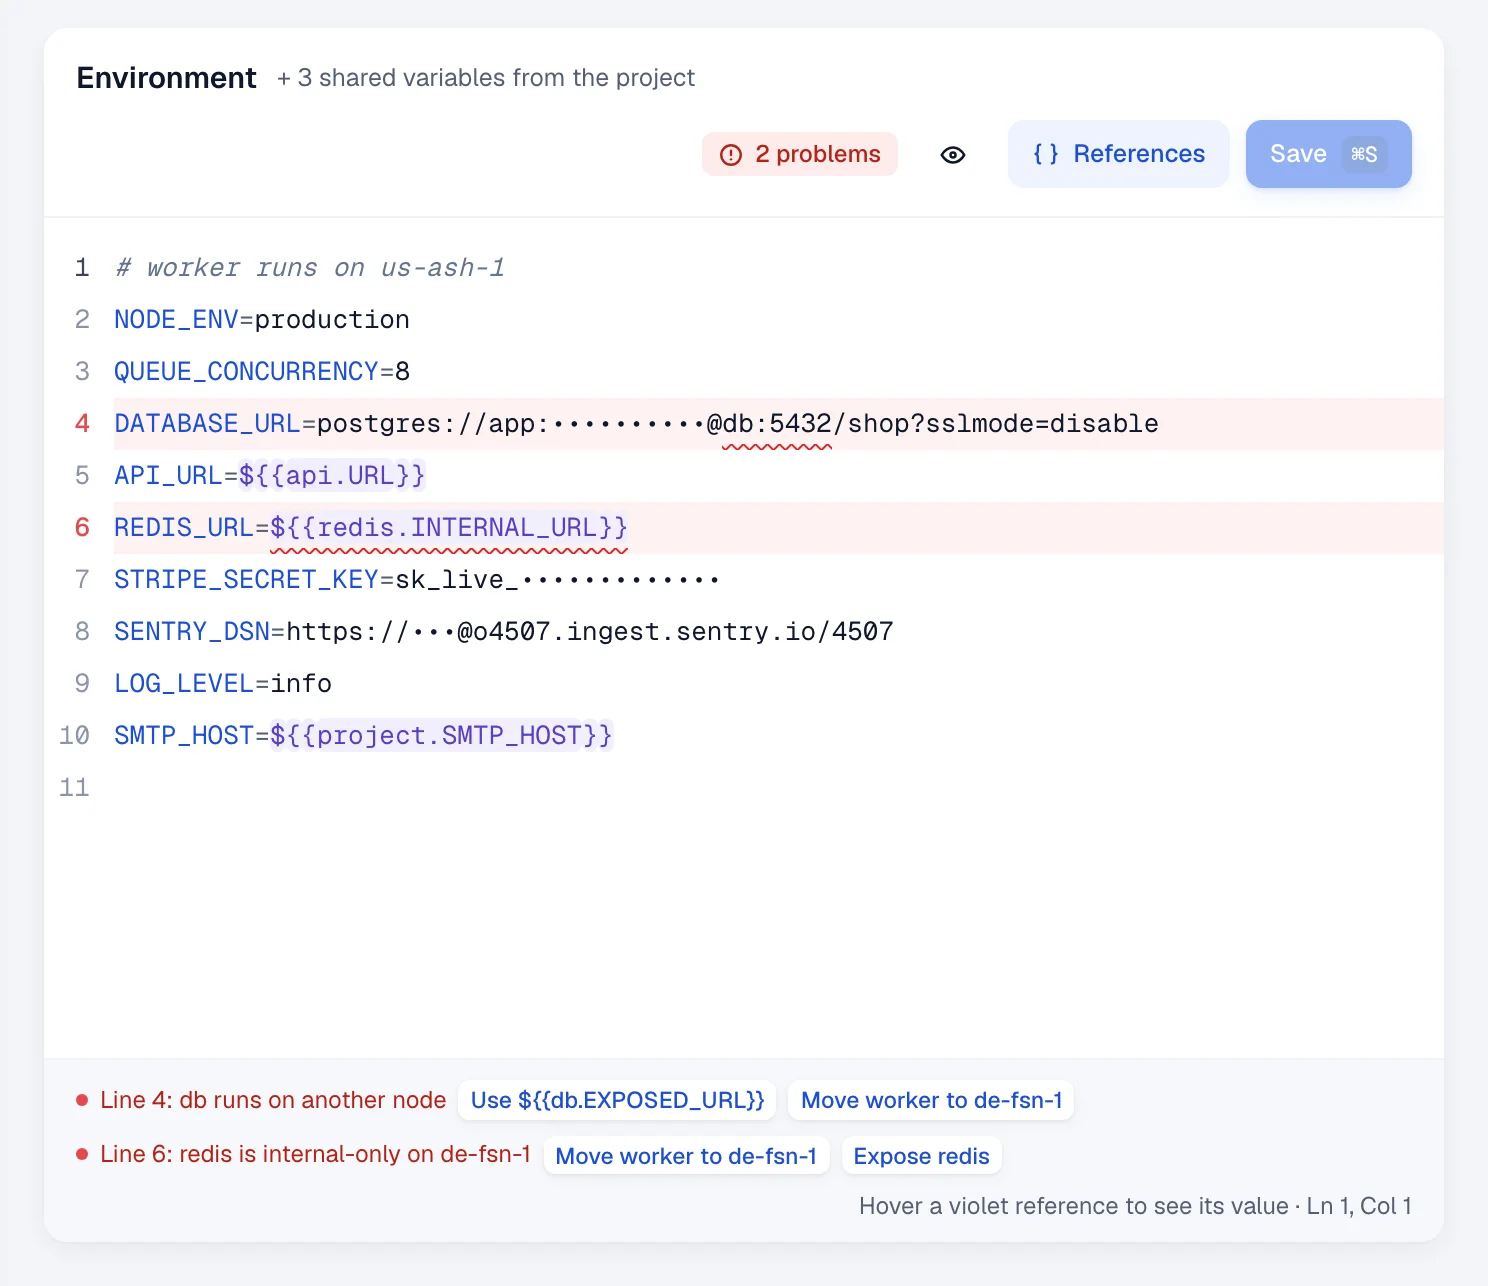
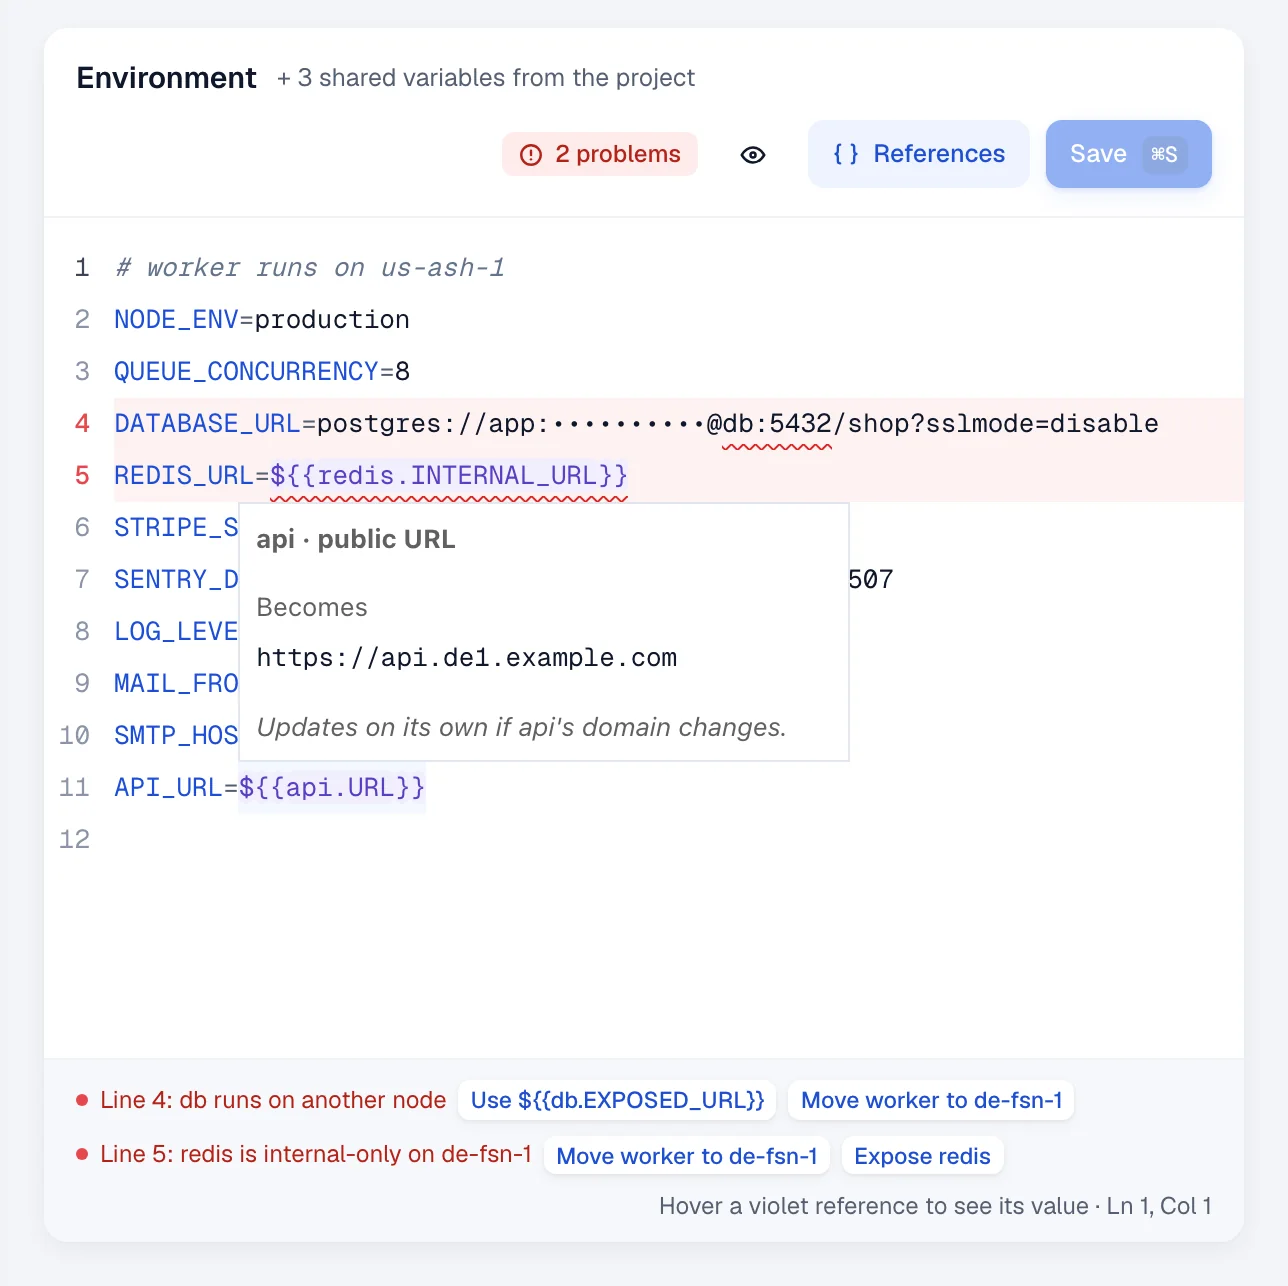
Landing sections: review fixes on copy, phone crops and captures
- Crash alerts carry the last 100 log lines, not 50 (agent MaxLines and panel maxCrashLines are 100).
- MCP: only deletes and other destructive calls wait in Approvals; the rest runs with the token's actions.
- Moving a service: the old copy is stopped while its volumes copy. Replicas: every node's edge balances,
  or an entry node takes the public traffic. Redis keeps its default user behind TLS. Restore any kept run.
- Env cell: one real capture with the editor's own hover on ${{api.URL}} (demo env reordered so the
  hover sits over plain lines and both red underlines stay in view); the separate hover crop is gone.
- Bento crops fill the cell on phones instead of being cut at 322px; env and health check are captured
  from narrower cards so they stay legible there. Logs and uptime get the phone cut (uptime a milder one).
- Health check crop no longer shows the line of the block above. Demo log lines no longer repeat.
- Observe figure titles are h3, like the alerts block.

diff --git a/apps/landing/components/settings-section.tsx b/apps/landing/components/settings-section.tsx
@@ -1,4 +1,3 @@
-import Image from "next/image";
 import { captures } from "@/lib/captures";
 import { CellShot, Chips } from "./shot";
 import { SectionHeading } from "./section-heading";
@@ -34,34 +33,14 @@ export function SettingsSection() {
             <Code>{"${{redis.INTERNAL_URL}}"}</Code> resolves on every deploy. The editor underlines a reference this
             node can&apos;t reach and offers the fix. Hover one to see its value.
           </CellText>
-          <div className="mt-auto overflow-hidden pl-5 sm:pl-6">
-            <div className="relative w-[480px] sm:w-[600px] lg:w-[640px]">
-              <Image
-                src={captures.env.src}
-                alt={captures.env.alt}
-                width={captures.env.width}
-                height={captures.env.height}
-                unoptimized
-                className="cell-shot block h-auto w-full rounded-t-[10px]"
-              />
-              {/* The editor's hover for ${{api.URL}}, a separate crop of the same screen, over the empty lines. */}
-              <Image
-                src={captures.envHover.src}
-                alt={captures.envHover.alt}
-                width={captures.envHover.width}
-                height={captures.envHover.height}
-                unoptimized
-                className="hover-shot absolute top-[63%] left-[24%] h-auto w-[41%] rounded-md"
-              />
-            </div>
-          </div>
+          <CellShot capture={captures.env} widthClass="sm:w-[600px] lg:w-[640px]" />
         </li>
 
         <li className="rise flex flex-col overflow-hidden rounded-2xl bg-surface lg:col-span-5">
           <CellText title="Access rules per domain">
             Basic auth, an IP allowlist, a rate limit and regex redirects on each domain. No middleware files to edit.
           </CellText>
-          <CellShot capture={captures.domainAccess} widthClass="w-[400px]" />
+          <CellShot capture={captures.domainAccess} widthClass="sm:w-[400px]" />
         </li>
 
         <li className="rise flex flex-col overflow-hidden rounded-2xl bg-surface lg:col-span-7 lg:row-span-2">
@@ -69,7 +48,7 @@ export function SettingsSection() {
             TCP, an HTTP request with path, host and expected status, or a command. A new version gets traffic only
             after it passes; if it never does, the old one keeps serving.
           </CellText>
-          <CellShot capture={captures.healthCheck} widthClass="w-[480px] sm:w-[600px] lg:w-[640px]" />
+          <CellShot capture={captures.healthCheck} widthClass="sm:w-[600px] lg:w-[640px]" />
         </li>
 
         <li className="rise flex flex-col overflow-hidden rounded-2xl bg-surface lg:col-span-5">
@@ -77,7 +56,7 @@ export function SettingsSection() {
             Restart after a fixed 5 seconds, stop after N crashes in a row, and get one alert per streak instead of one
             per crash.
           </CellText>
-          <CellShot capture={captures.crashPolicy} widthClass="w-[400px]" />
+          <CellShot capture={captures.crashPolicy} widthClass="sm:w-[400px]" />
         </li>
 
         <li className="rise flex flex-col overflow-hidden rounded-2xl bg-surface lg:col-span-5">
@@ -85,7 +64,7 @@ export function SettingsSection() {
             A port open for 5 minutes to 24 hours, only to the IPs you list. The node closes it on time, even with the
             panel down.
           </CellText>
-          <CellShot capture={captures.timedExpose} widthClass="w-[400px]" />
+          <CellShot capture={captures.timedExpose} widthClass="sm:w-[400px]" />
         </li>
 
         <li className="rise flex flex-col gap-5 rounded-2xl bg-surface p-5 sm:p-6 lg:col-span-12 lg:flex-row lg:items-center lg:gap-10">

diff --git a/apps/landing/components/shot.tsx b/apps/landing/components/shot.tsx
@@ -1,11 +1,15 @@
 import Image from "next/image";
 import type { Capture } from "@/lib/captures";
 
+// How much wider than the screen a `phoneCut` crop is drawn on phones.
+const phoneWidths = { wide: "w-[170%]", medium: "w-[130%]" } as const;
+
 /**
  * A real panel capture on the navy page: rounded, no rim, a dark drop shadow and a faint blue glow
  * (`.shot` in globals.css). `fade` dissolves the bottom into the page for crops that run on.
  * `phoneCut` is for wide crops: on phones they are drawn larger and cut on the right (with a fade),
- * like the hero shot, so the text stays legible.
+ * like the hero shot, so the text stays legible. `true` is `"wide"`; `"medium"` cuts less, for crops
+ * whose content runs further right.
  */
 export function Shot({
   capture,
@@ -16,8 +20,9 @@ export function Shot({
   capture: Capture;
   className?: string;
   fade?: boolean;
-  phoneCut?: boolean;
+  phoneCut?: boolean | keyof typeof phoneWidths;
 }) {
+  const phoneWidth = phoneCut ? phoneWidths[phoneCut === true ? "wide" : phoneCut] : "";
   // Served as is (`unoptimized`): the captures are small webp files already, and resizing would
   // soften the panel's small text.
   return (
@@ -30,15 +35,16 @@ export function Shot({
         width={capture.width}
         height={capture.height}
         unoptimized
-        className={`block h-auto ${phoneCut ? "w-[170%] max-w-none sm:w-full" : "w-full"}`}
+        className={`block h-auto ${phoneCut ? `${phoneWidth} max-w-none sm:w-full` : "w-full"}`}
       />
     </div>
   );
 }
 
 /**
- * A capture that sits at the bottom of a bento cell at a fixed width and runs off the cell's right
- * and bottom edges. `widthClass` sets its width per breakpoint (for example `w-[520px] lg:w-[600px]`).
+ * A capture at the bottom of a bento cell that runs off the cell's bottom edge. On phones it fills the
+ * cell's width and meets its right edge, so nothing is cut; from `sm` up `widthClass` sets a fixed
+ * width per breakpoint (for example `sm:w-[520px] lg:w-[600px]`), which may run off the right edge.
  */
 export function CellShot({
   capture,
@@ -57,7 +63,7 @@ export function CellShot({
         width={capture.width}
         height={capture.height}
         unoptimized
-        className={`cell-shot block h-auto max-w-none rounded-t-[10px] ${widthClass}`}
+        className={`cell-shot block h-auto w-full max-w-none rounded-tl-[10px] sm:rounded-tr-[10px] ${widthClass}`}
       />
     </div>
   );

diff --git a/tools/hero-shot/sections.ts b/tools/hero-shot/sections.ts
@@ -133,33 +133,20 @@ const shots: Shot[] = [
     run: async (page) => {
       await page.locator(".monaco-editor .view-line").first().waitFor();
       const editor = await card(page, "Environment");
-      await width(editor, 700);
+      await width(editor, 600);
       await isolate(page, [editor]);
       await page.waitForTimeout(1400);
+      // The editor's own hover on the last line's reference: it opens above its token, over plain lines,
+      // and leaves the two red underlines in view.
+      const target = page.locator(".view-line span", { hasText: "api.URL" }).last();
+      const t = (await target.boundingBox()) as Box;
+      await page.mouse.move(t.x + t.width * 0.55, t.y + t.height / 2);
+      await page.locator(".monaco-hover:not(.hidden)").first().waitFor();
+      await page.waitForTimeout(1200);
       const b = await union([editor], 22);
       return { ...b, y: b.y + 8, height: b.height - 8 };
     },
   },
-  ...(
-    [
-      ["env-hover-problem", "redis.INTERNAL_URL"],
-      ["env-hover-value", "api.URL"],
-    ] as const
-  ).map(([name, token]): Shot => ({
-    name,
-    path: service(svc.worker, "environment"),
-    viewport: { width: 1440, height: 1000 },
-    run: async (page) => {
-      await page.locator(".monaco-editor .view-line").first().waitFor();
-      await page.waitForTimeout(1200);
-      const target = page.locator(".view-line span", { hasText: token }).last();
-      const box = (await target.boundingBox()) as Box;
-      await page.mouse.move(box.x + box.width * 0.55, box.y + box.height / 2);
-      await page.waitForTimeout(1600);
-      const hover = page.locator(".monaco-hover:not(.hidden)").first();
-      return union([hover], 0);
-    },
-  })),
   {
     name: "domain-access",
     path: service(svc.web, "domains"),
@@ -201,9 +188,11 @@ const shots: Shot[] = [
     path: service(svc.api, "advanced"),
     run: async (page) => {
       const c = await card(page, "Health check and deploys");
-      await width(c, 680);
+      await width(c, 580);
       await isolate(page, [c]);
-      return union([c], 22);
+      // Skip the line of the block above the card.
+      const b = await union([c], 22);
+      return { ...b, y: b.y + 8, height: b.height - 8 };
     },
   },
   {

diff --git a/apps/landing/components/observe-section.tsx b/apps/landing/components/observe-section.tsx
@@ -10,17 +10,20 @@ function Figure({
   title,
   children,
   className = "",
+  phoneCut = false,
 }: {
   capture: Capture;
   title: string;
   children: React.ReactNode;
   className?: string;
+  /** Wide crops: drawn larger on phones and cut on the right (see Shot). */
+  phoneCut?: React.ComponentProps<typeof Shot>["phoneCut"];
 }) {
   return (
     <figure className={`rise flex min-w-0 flex-col gap-4 ${className}`}>
-      <Shot capture={capture} />
+      <Shot capture={capture} phoneCut={phoneCut} />
       <figcaption className="flex flex-col gap-1.5">
-        <span className="text-[16px] font-semibold text-ink">{title}</span>
+        <h3 className="text-[16px] font-semibold text-ink">{title}</h3>
         <span className="text-[14.5px] leading-[1.6] text-ink-card">{children}</span>
       </figcaption>
     </figure>
@@ -40,7 +43,7 @@ export function ObserveSection() {
       </SectionHeading>
 
       <div className="grid gap-x-8 gap-y-12 lg:grid-cols-12">
-        <Figure capture={captures.logs} title="Logs across deploys" className="lg:col-span-7">
+        <Figure capture={captures.logs} title="Logs across deploys" phoneCut className="lg:col-span-7">
           Search every deploy&apos;s logs, not just the running one, or follow them live. The console, a shell and a
           file browser for the volumes open in the browser too.
         </Figure>
@@ -48,8 +51,8 @@ export function ObserveSection() {
           <Figure capture={captures.metrics} title="Metrics per service">
             CPU, memory and network, average and peak, from live up to 30 days.
           </Figure>
-          <Figure capture={captures.uptime} title="Uptime checks and crash reports">
-            A URL checked on an interval, with its latency history. A crash alert carries the exit code and the last 50
+          <Figure capture={captures.uptime} title="Uptime checks and crash reports" phoneCut="medium">
+            A URL checked on an interval, with its latency history. A crash alert carries the exit code and the last 100
             log lines.
           </Figure>
         </div>

diff --git a/apps/landing/lib/captures.ts b/apps/landing/lib/captures.ts
@@ -23,13 +23,8 @@ export const captures = {
   ),
   env: capture(
     "env",
-    [1488, 1286],
-    "The environment editor: two lines underlined in red, and below them the problems with one-click fixes such as Expose redis",
-  ),
-  envHover: capture(
-    "env-hover-value",
-    [608, 256],
-    "Hovering a reference: api's public URL becomes https://api.de1.example.com and updates if the domain changes",
+    [1288, 1286],
+    "The environment editor: two lines underlined in red with one-click fixes below them such as Expose redis, and the hover on ${{api.URL}}: api's public URL becomes https://api.de1.example.com and updates if the domain changes",
   ),
   domainAccess: capture(
     "domain-access",
@@ -38,7 +33,7 @@ export const captures = {
   ),
   healthCheck: capture(
     "health-check",
-    [1448, 1204],
+    [1248, 1260],
     "Health check settings: an HTTP request to /health on port 3000, interval, timeout, grace period and the zero-downtime deploy strategy",
   ),
   crashPolicy: capture(

diff --git a/apps/landing/components/nodes-section.tsx b/apps/landing/components/nodes-section.tsx
@@ -23,9 +23,10 @@ const rows: Row[] = [
     title: "Replicas across nodes, or a clean move",
     body: (
       <>
-        Run copies on several nodes. Every node&apos;s edge spreads requests over all replicas, and the entry node takes
-        the public traffic. Moving a service deploys it on the new node, copies its volumes, switches traffic and only
-        then removes the old copy. If anything fails, it stays where it was.
+        Run copies on several nodes. Each node&apos;s edge spreads requests over all replicas, or pick an entry node
+        that takes the public traffic and does the spreading. Moving a service deploys it on the new node, stops the
+        old copy while its volumes are copied over, switches traffic, then removes the old copy. If anything fails, it
+        stays where it was.
       </>
     ),
     chips: ["Load balanced", "Entry node", "Sticky sessions", "Volumes move with it"],

diff --git a/apps/landing/components/databases-section.tsx b/apps/landing/components/databases-section.tsx
@@ -14,7 +14,7 @@ const engines = [
 const facts: { title: string; body: string; icon: Icon }[] = [
   {
     title: "Exposed over TLS only",
-    body: "Exposing one adds a separate user that must use TLS. The internal URL stays the same.",
+    body: "Exposing one adds a separate user that must use TLS; Redis keeps its default user behind TLS. The internal URL stays the same.",
     icon: IconLock,
   },
   {
@@ -29,7 +29,7 @@ const facts: { title: string; body: string; icon: Icon }[] = [
   },
   {
     title: "Backups to S3 or R2",
-    body: "Dumps on a schedule with keep-last retention, to S3, R2 or MinIO. Restore any run.",
+    body: "Dumps on a schedule with keep-last retention, to S3, R2 or MinIO. Restore any kept run.",
     icon: IconCloudUpload,
   },
 ];

diff --git a/apps/landing/app/globals.css b/apps/landing/app/globals.css
@@ -164,16 +164,9 @@
   }
 }
 
-/* A capture at the bottom of a bento cell: it runs off the cell's edge, so the shadow only goes up. */
+/* A capture at the bottom of a bento cell: it runs off the cell's bottom edge, so the shadow only goes up. */
 .cell-shot {
   box-shadow: 0 -10px 40px -12px rgb(0 0 0 / 0.55);
-}
-
-/* A second crop laid over a capture (the env editor's hover), shadowed like the panel's popovers. */
-.hover-shot {
-  box-shadow:
-    0 12px 32px -8px rgb(15 23 42 / 0.35),
-    0 2px 6px rgb(15 23 42 / 0.12);
 }
 
 /*

diff --git a/apps/landing/components/access-section.tsx b/apps/landing/components/access-section.tsx
@@ -47,7 +47,7 @@ const items: Item[] = [
   },
   {
     title: "MCP with an approvals queue",
-    body: "AI tools start read-only. Anything that changes or deletes something waits in Approvals until a person says yes.",
+    body: "AI tools start read-only. Deletes and anything that can't be undone wait in Approvals until a person says yes; the rest runs only with the actions you gave the token.",
     icon: IconRobot,
   },
 ];
